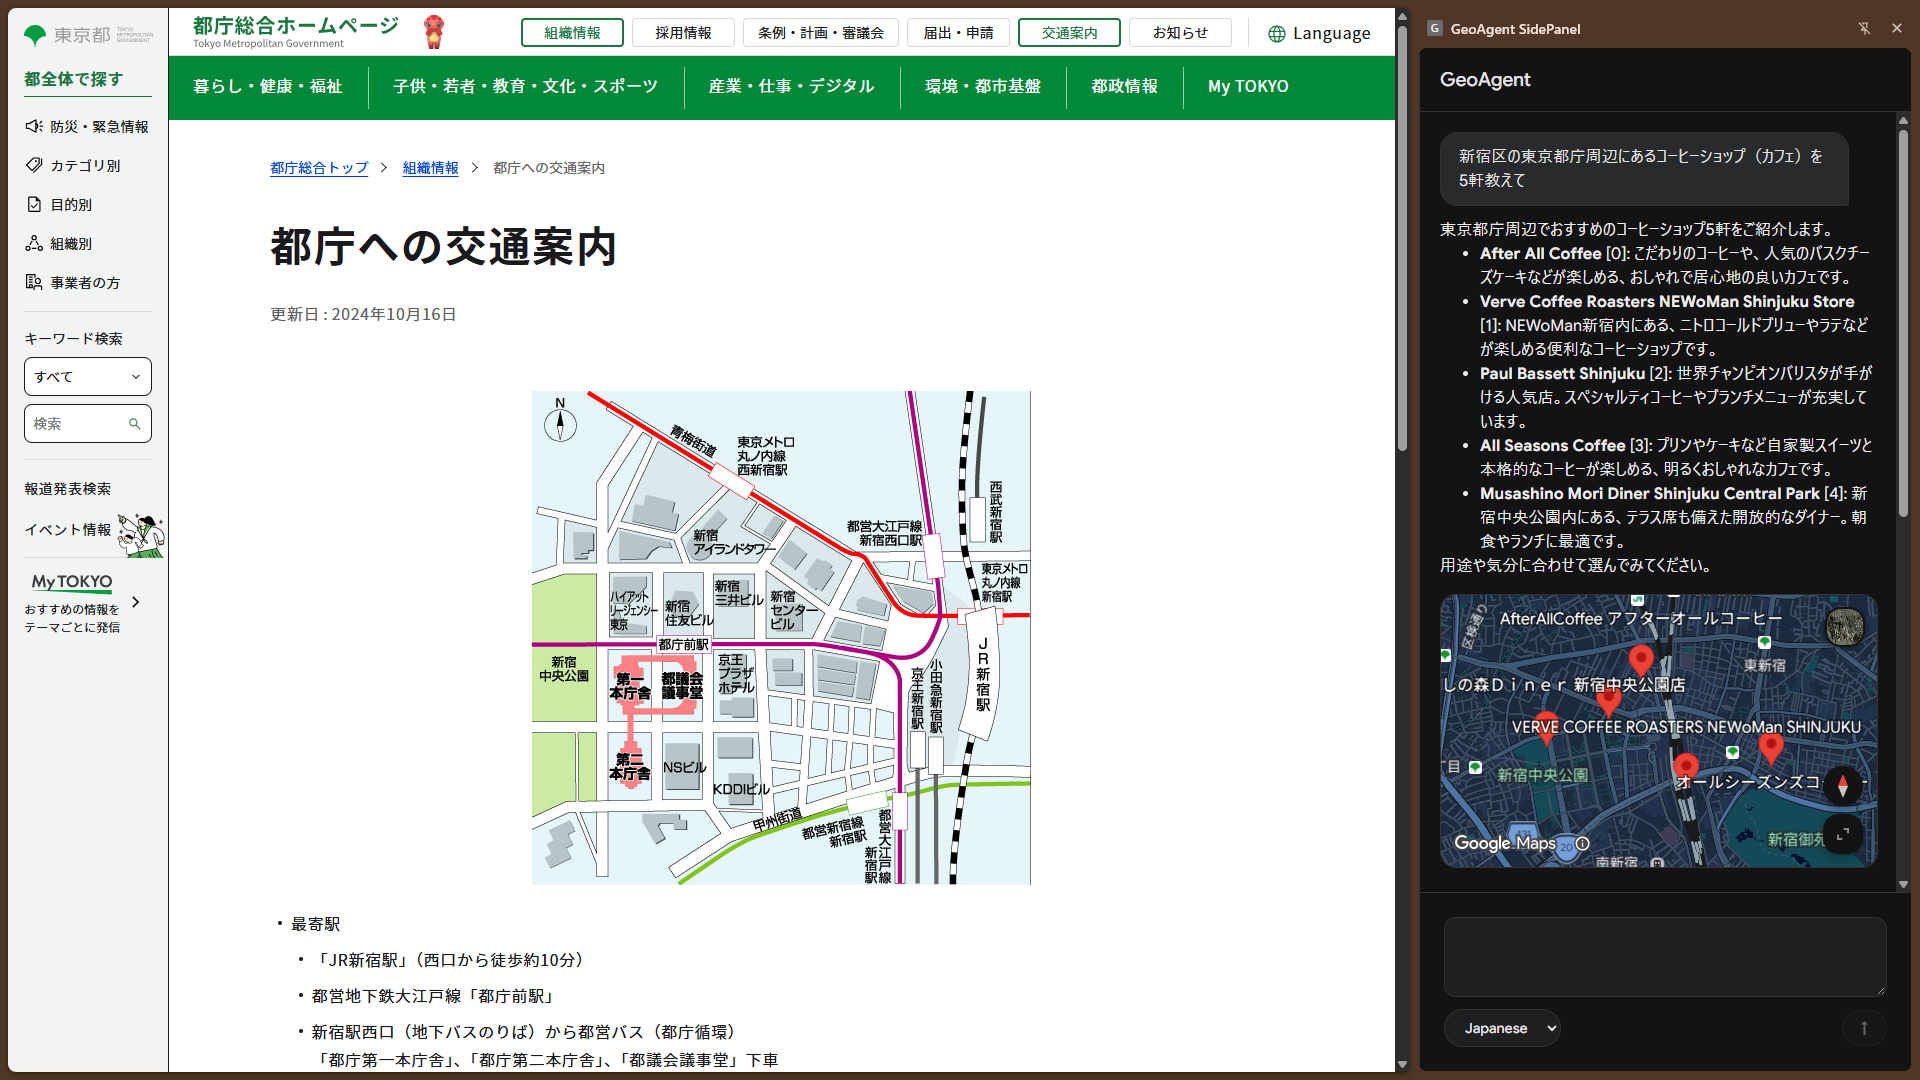
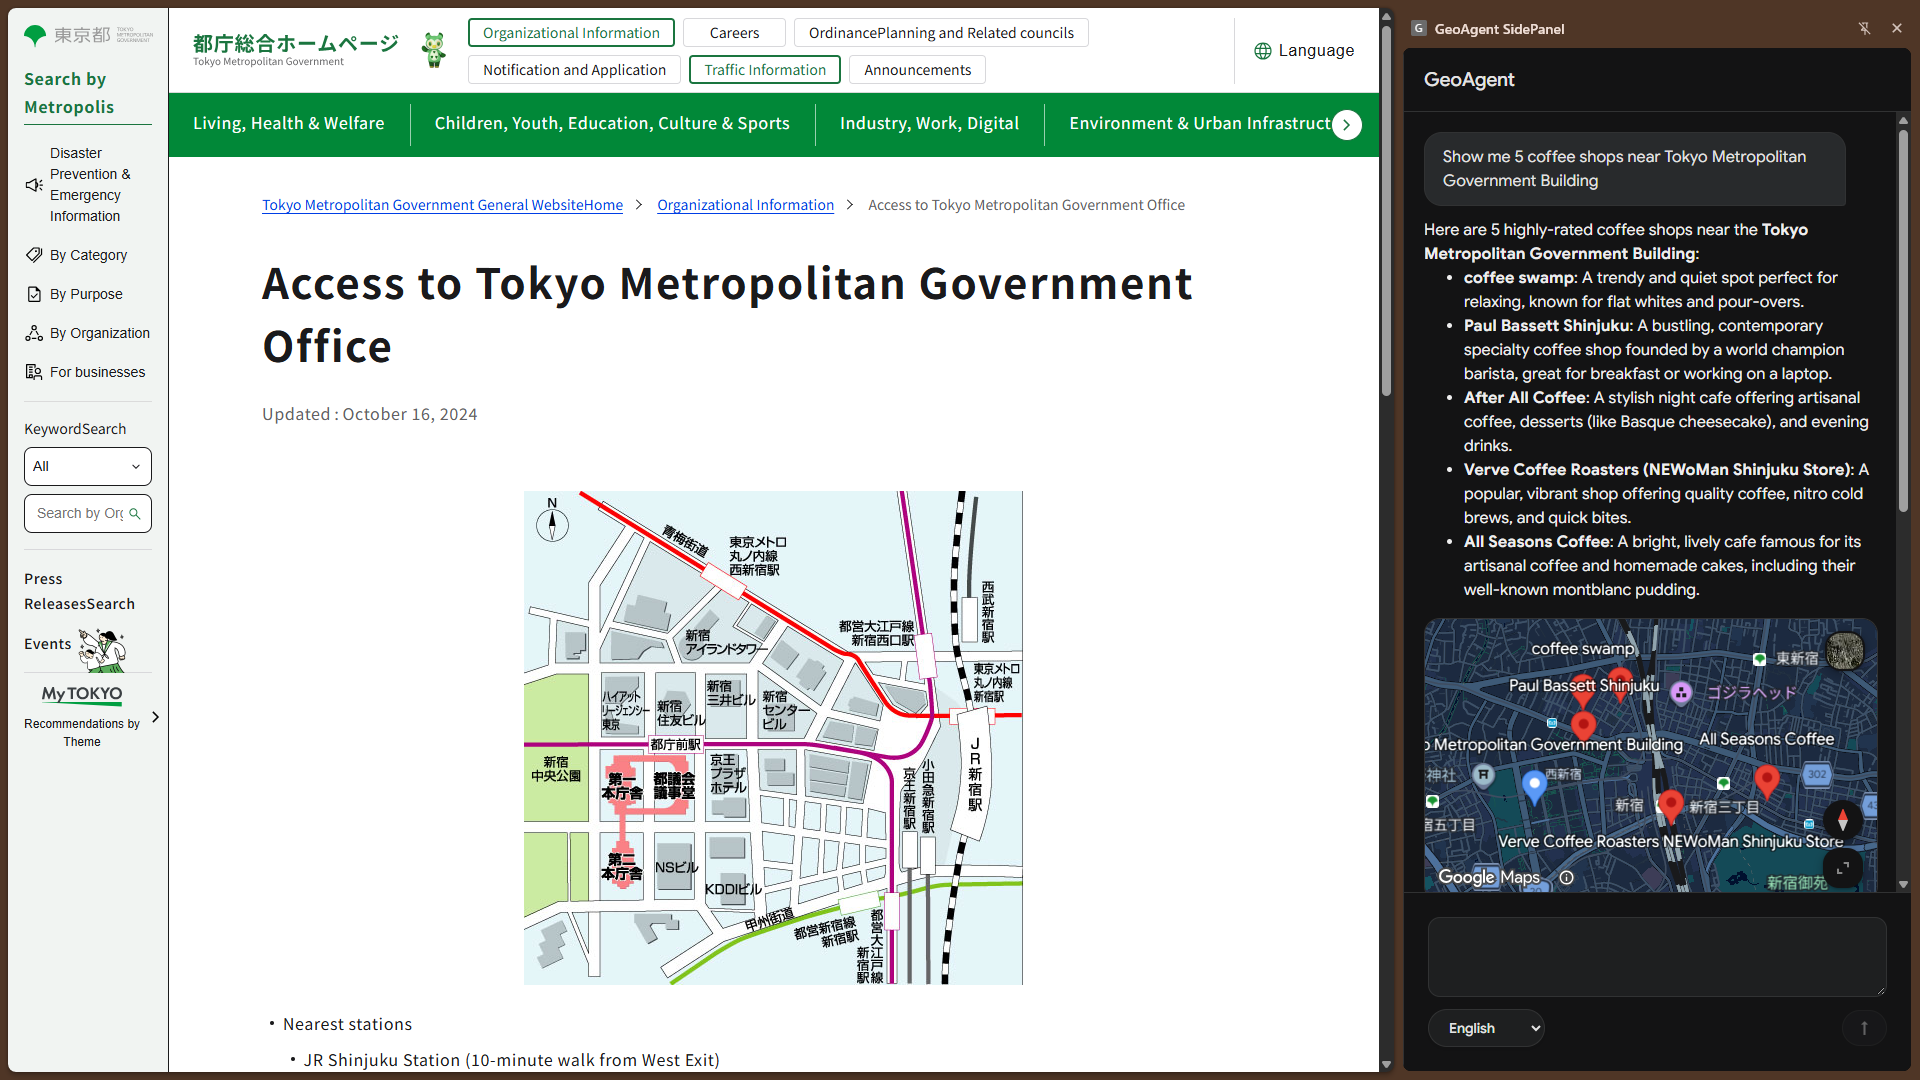
docs: update README documentation and refresh asset images

diff --git a/README.md b/README.md
@@ -7,8 +7,8 @@ Built with agents-cli, googlemaps/a2ui, and Google Cloud Agent Stack:
 - **[Uber H3 Spatial Indexing](https://h3geo.org/)**: Discretizes physical geography into hexagonal grid cells (Resolutions 0–15) for deterministic spatial clustering and OD corridor routing.
 - **[Google Maps MCP & Places API (New)](https://developers.google.com/maps/ai/grounding-lite)**: Dual-layer grounding combining Grounding Lite MCP for LLM tool search with Places API (New) Pro-tier to eliminate map hallucinations and deliver verified place details.
 
-Maps Agentic UI (A2UI) agent with Google ADK
-Agent generated and updated with `agents-cli` version `1.7.0`
+
+![Place UI](assets/ga_place.png)
 
 ## Project Structure
 
@@ -17,22 +17,29 @@ geo-agent/
 ├── app/                       # Core agent backend (FastAPI & Google ADK)
 │   ├── agent.py               # Main agent logic & MAUI bundle definition
 │   ├── agent_executor.py      # MAUI agent executor integration
-│   ├── fast_api_app.py        # FastAPI Backend server with A2A routes
+│   ├── fast_api_app.py        # FastAPI backend server with A2A & spatial routes
 │   ├── localization_service.py # Place localization & Pro-tier metadata service (Places API New)
 │   ├── spatial/               # Uber H3 hierarchical spatial indexing & caching
 │   │   ├── __init__.py
 │   │   └── h3_service.py      # H3 service (lat/lng to cell, k-ring, A2UI enrichment)
 │   └── app_utils/             # App utilities, A2A endpoints, and services
+│       ├── a2a.py             # A2A protocol utilities
+│       └── services.py        # Shared service helpers
 ├── client/                    # Client applications
-│   ├── web/react/             # React web client with A2UI renderer & language selector
+│   └── web/react/             # React web client with A2UI renderer & language selector
+├── artifacts/                 # Eval outputs (auto-generated)
+│   ├── traces/                # Raw agent traces (JSON)
+│   └── grade_results/         # Graded eval results (JSON + HTML)
+├── assets/                    # Screenshots and diagrams for documentation
 ├── deployment/                # Deployment infrastructure (Terraform)
 ├── tests/                     # Unit, integration, and evaluation datasets
+│   └── eval/datasets/         # Eval datasets (e.g., basic-dataset.json)
+├── agents-cli-manifest.yaml   # agents-cli project manifest
 ├── Dockerfile                 # Backend container definition for Cloud Run
 ├── GEMINI.md                  # AI-assisted development guide
 └── pyproject.toml             # Project dependencies and packaging
 ```
 
-> 💡 **Tip:** Use [Antigravity CLI](https://antigravity.google/) for AI-assisted development - project context is pre-configured in `GEMINI.md`.
 
 ## Requirements
 
@@ -81,6 +88,11 @@ Evaluate agent behavior:
 agents-cli eval run
 ```
 
+> **Test cases** are defined in [`tests/eval/datasets/basic-dataset.json`](tests/eval/datasets/basic-dataset.json).
+> **Evaluation results** (traces) are saved to [`artifacts/traces/`](artifacts/traces/).
+
+![Evaluation results UI](assets/etc_evaluation_report.png)
+
 ### Agent Configuration & Local Development
 
 #### 1. Configure the Default Agent (`.env`)
@@ -88,16 +100,8 @@ agents-cli eval run
 Set `A2UI_DEFAULT_AGENT` in `.env` to choose your default agent mode:
 
 ```bash
-# Option 1: Template Agent (Recommended for low-latency local search & directions)
 A2UI_DEFAULT_AGENT=TEMPLATE
-
-# Option 2: Base Agent (Dynamic A2UI component generation via Grounding Lite MCP)
-# A2UI_DEFAULT_AGENT=BASE
 ```
-
-> 💡 **Tip (Dynamic Overrides via Prompt):**
-> * `[LANG:ja] <query>` or `[LANG:en] <query>` ➔ Override language resolution dynamically (defaults to UI selector)
-> * `[RES:<0-15>] <query>` ➔ Override H3 spatial index resolution (0 to 15)
 
 #### 2. Start the MAUI Agent Backend
 
@@ -216,6 +220,22 @@ gcloud run deploy geo-agent-web \
 To add CI/CD and Terraform, run `agents-cli scaffold enhance`.
 To set up your production infrastructure, run `agents-cli infra cicd`.
 
+#### 3. Verify the Deployed API
+
+After deployment, the interactive API documentation (Swagger UI) is available at:
+
+```
+https://<your-cloud-run-service-url>/docs
+```
+
+**Example endpoint — Uber H3 Spatial Index (`/api/spatial/h3-info`):**
+
+This endpoint returns the [Uber H3](https://h3geo.org/) hexagonal grid cell information (cell index, neighbors, etc.) for a given latitude, longitude, and resolution. It is useful for verifying that the spatial indexing layer is functioning correctly after deployment.
+
+
+![Swagger UI](assets/etc_swagger.png)
+
+
 ## Observability
 
 Built-in telemetry exports to Cloud Trace, BigQuery, and Cloud Logging.
@@ -288,6 +308,13 @@ WHERE event_type = 'LLM_RESPONSE'
   AND JSON_VALUE(attributes, '$.usage_metadata.prompt') IS NOT NULL
 GROUP BY agent, model;
 ```
+
+### 3. Looker Studio Dashboard
+
+The BigQuery telemetry data can be visualized in [Looker Studio](https://lookerstudio.google.com/) by connecting it to the `agent_events` or `completions_view` tables in your project.
+
+![Admin Place UI](assets/gaa_place.png)
+![Admin Place h3 UI](assets/gaa_place_h3.png)
 
 ## A2A Inspector
 
